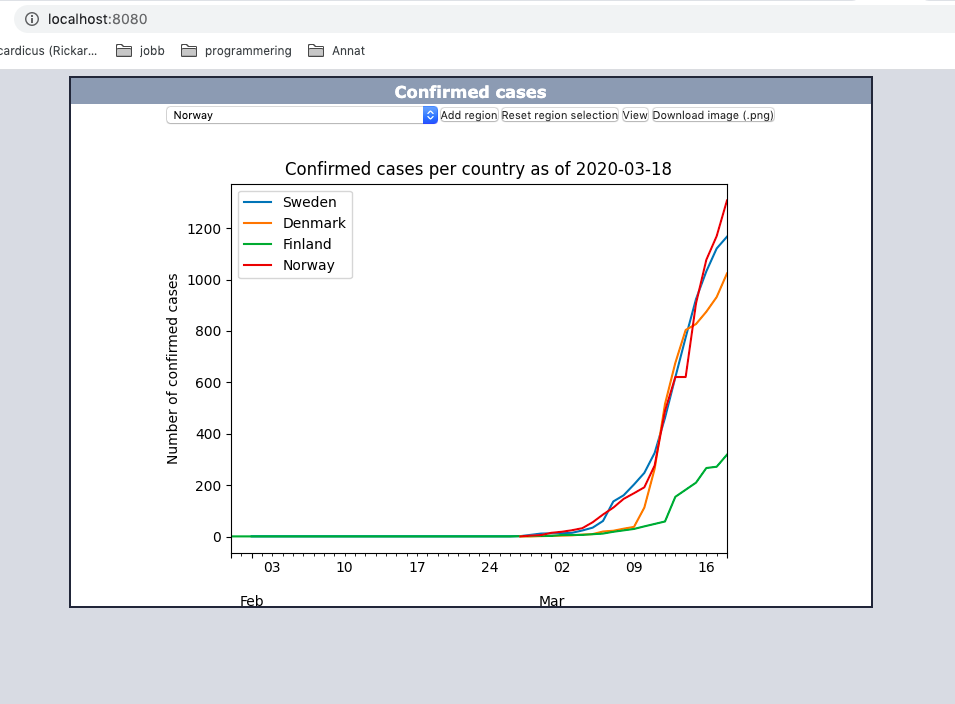
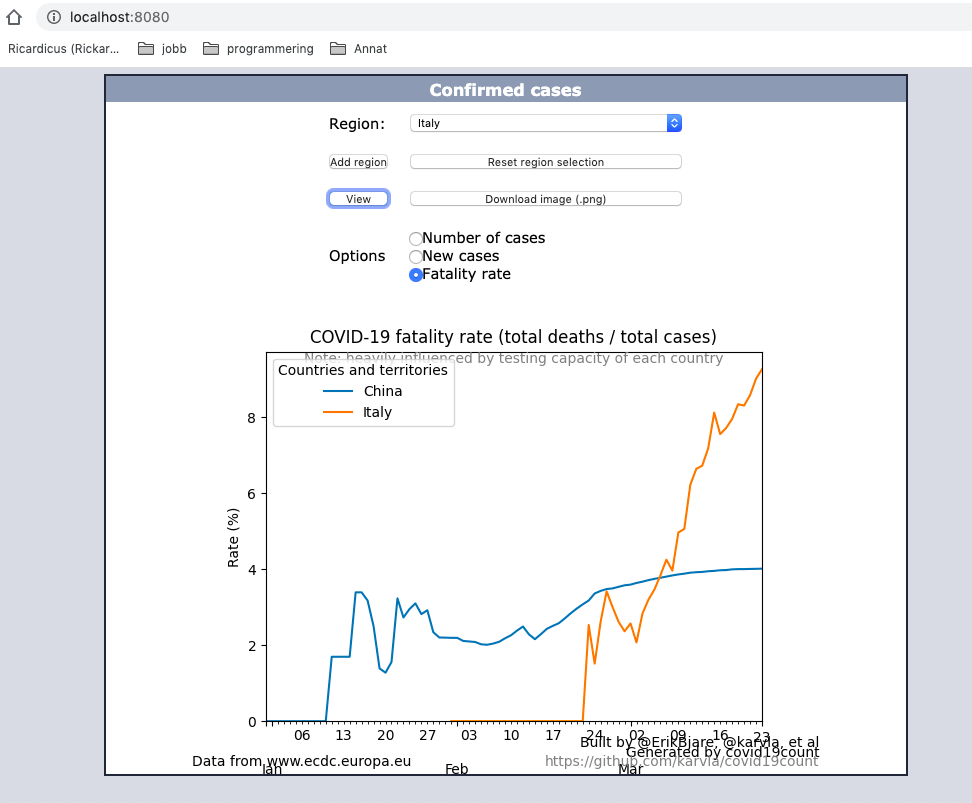
Docker app updated

diff --git a/docker/node/html/index.html b/docker/node/html/index.html
@@ -56,6 +56,10 @@
     background-color: #F5F6F7;
   }
 
+  td {
+    padding:10px;
+  }
+
   div.page_header span {
     margin: 15px 0px 0px 50px;
 
@@ -153,6 +157,10 @@
     background-color: #9F9386;
   }
 
+  button {
+    width: 100%;
+  }
+
   .floating_element {
     position: relative;
     float: left;
@@ -240,7 +248,7 @@
 
           try {
 
-            var regions = JSON.parse(response)["output"].split(',');
+            var regions = JSON.parse(response)["output"].split('\r\n');
             updateRegions(regions);
 
           } catch(e) {
@@ -291,11 +299,35 @@
 
       function generateNewPlot() {
 
-        var command = "python3 covid19count.py";
+        var cumulative = "opt-cum";
+        var fatality = "opt-fat";
+        var rate = "opt-new";
+
+        var regionToLowerCase = false;
+
+        var command = "python3 covid19count.py"
+
+        if ( document.getElementById(cumulative).checked ) {
+          command += " plot --cum";
+        } else if ( document.getElementById(rate).checked ) {
+          // No flag for this option ?
+          command += " plot";
+        } else if ( document.getElementById(fatality).checked ) {
+          // No flag for this option ?
+          command += " fatality";
+          // I need to convert to lower case ?
+          regionToLowerCase = true;
+        }
+
+        command += " --outfile=output.png"
 
         var regions = "";
         for ( var i = 0; i < addToPlotVec.length; i++ ) {
-          regions += " " + addToPlotVec[i];
+          if (regionToLowerCase){
+            regions += " " + addToPlotVec[i].toLowerCase();
+          } else {
+            regions += " " + addToPlotVec[i];
+          }
         }
 
         command = command + regions;
@@ -314,7 +346,7 @@
           document.getElementById(pView).innerHTML = "";
           addToPlotVec = [];
 
-        }, 4000);
+        }, 7000);
       }
 
       window.onload = setup;
@@ -331,16 +363,30 @@
             <table>
               <tbody>
                 <tr>
+                  <td><p>Region:</p></td>
                   <td><select id="region-select"></select></td>
+                </tr>
+                <tr>
                   <td><button onclick="addToPlot();">Add region</button></td>
                   <td><button onclick="resetRegions();">Reset region selection</button>
+                </tr>
+                <tr>
                   <td><button id="view-plot-button" onclick="generateNewPlot();">View</button></td>
                   <td><button onclick="window.open('/output.png');">Download image (.png)</button></td>
                 </tr>
+                <tr>
+                  <td>Options</td>
+                  <td><input type="radio" id="opt-cum" name="plotopt">Number of cases</input><br>
+
+            <input checked="checked" type="radio" id="opt-new" name="plotopt">New cases</input><br>
+            <input type="radio" id="opt-fat" name="plotopt">Fatality rate</input><br>
+            </td>
+                </tr>
+
               </tbody>
             </table>
             <p id="added-regions-p"></p>
-            <img id="output-img"></img>
+            <img src="/output.png" id="output-img"></img>
 
           </center>
         </div>

diff --git a/covid19count.py b/covid19count.py
@@ -79,7 +79,7 @@ def _load_population():
 @click.option("--from-first-death", is_flag=True)
 @click.option("--since")
 @click.option("--until")
-@click.option("--output")
+@click.option("--outfile")
 def plot(
     regions: List[str],
     cum: bool,
@@ -90,7 +90,7 @@ def plot(
     from_first_death: bool,
     since=None,
     until=None,
-    output=""
+    outfile="output.png"
 ):
     """Plot cases (by default) or deaths for different regions"""
 
@@ -147,9 +147,9 @@ def plot(
     plt.legend()
     _draw_watermark(plt.gcf())
     
-    if ( output is not None and len(output) > 0 ):
+    if ( outfile is not None and len(outfile) > 0 ):
         # Saving figure
-        plt.savefig(output)
+        plt.savefig(outfile)
     else:
         # Showing figure
         plt.show()
@@ -201,7 +201,9 @@ def listregions(
 
 @main.command()
 @click.argument("regions", nargs=-1, required=True)
-def fatality(regions: List[str]):
+@click.option("--outfile")
+def fatality(regions: List[str], 
+    outfile="output.png"):
     # TODO: Add time-lag to account for testing
     regions = _filter_regions(regions)
 
@@ -230,7 +232,13 @@ def fatality(regions: List[str]):
     plt.xlabel("")
     plt.ylim(0)
     _draw_watermark(plt.gcf())
-    plt.show()
+
+    if ( outfile is not None and len(outfile) > 0 ):
+        # Saving figure
+        plt.savefig(outfile)
+    else:
+        # Showing figure
+        plt.show()
 
 
 def _draw_watermark(fig):
